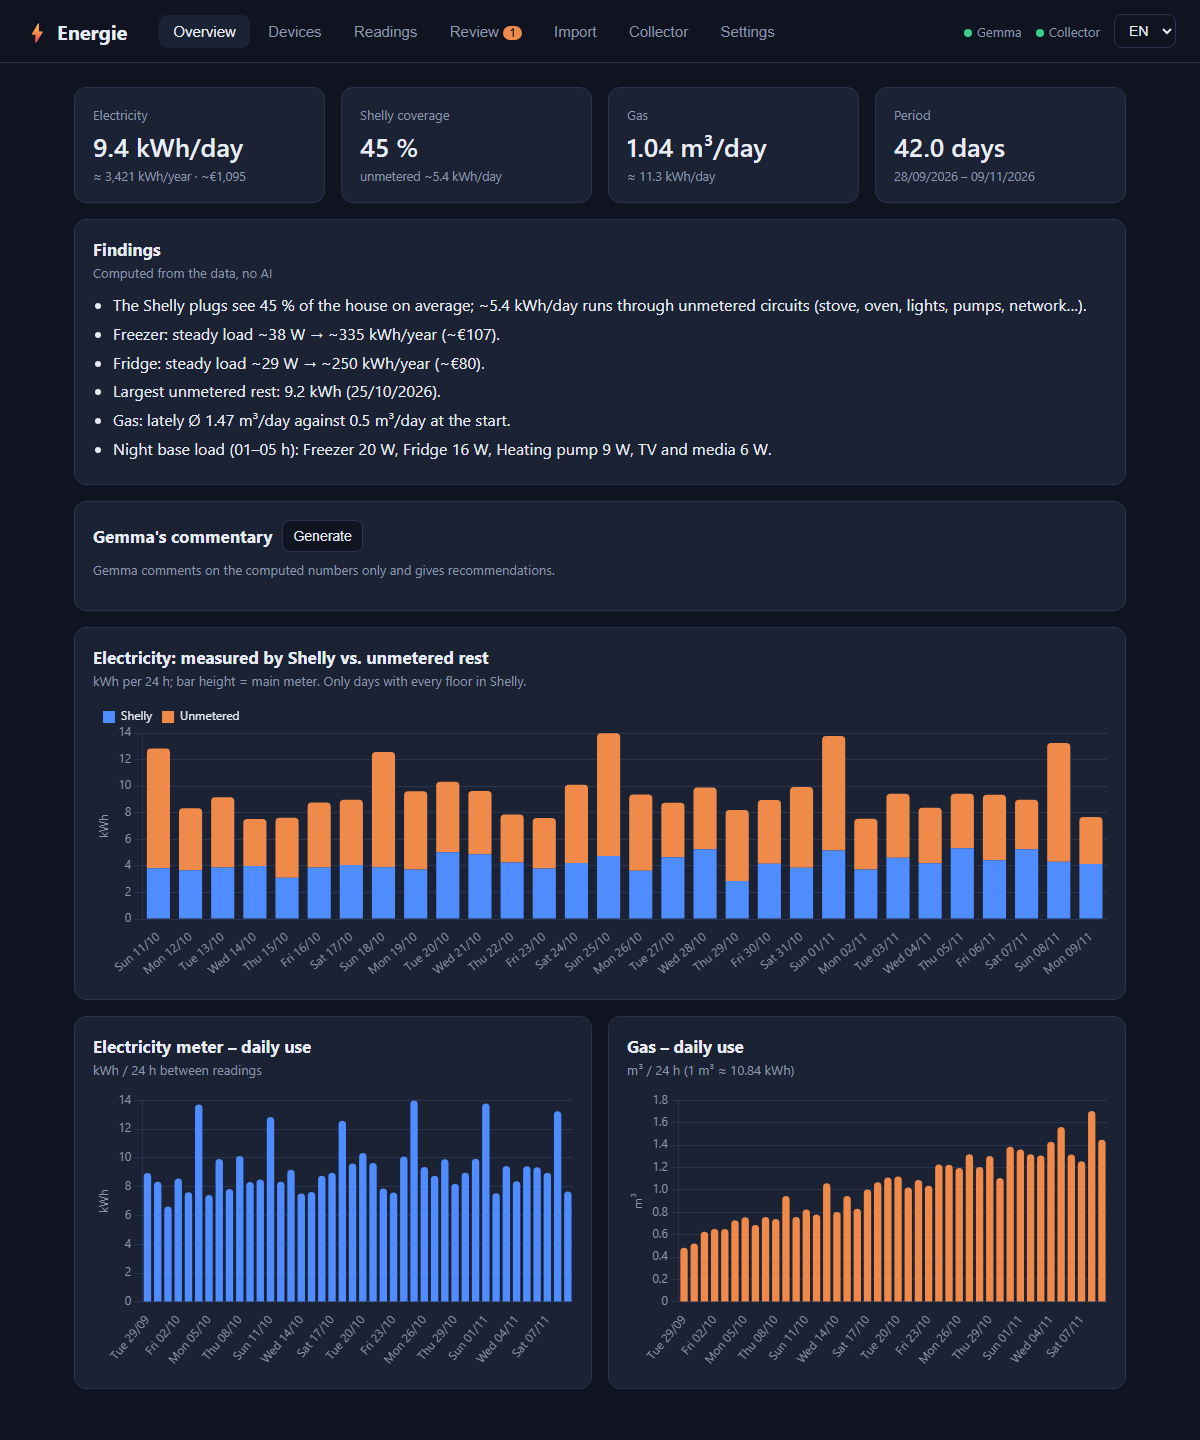
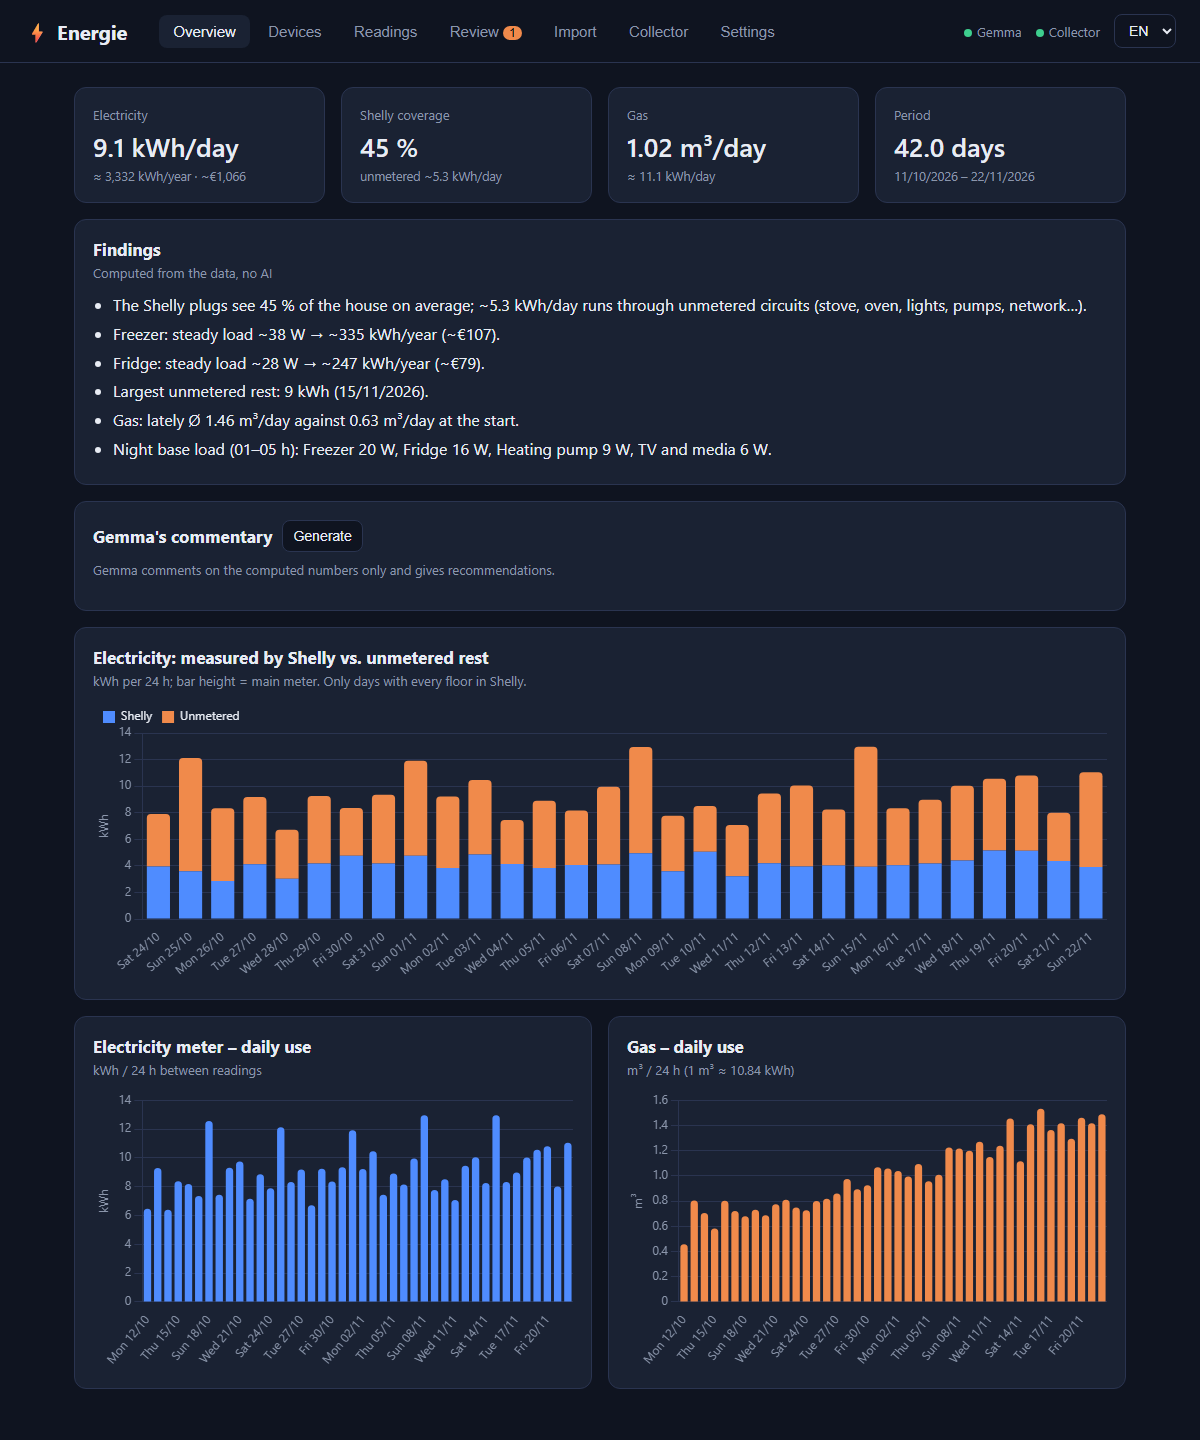
Devices tab: all plugs in one hourly chart, plus a daily stack
- hourly profile: one line per device and a dashed total of the devices
  shown; a click in the legend hides or shows a device in both charts,
  remembered in the browser; Show all / Hide all
- per day: kWh per device, stacked
- eight colour-vision-checked hues that stay with their device; devices
  9-16 reuse them with a dotted line and hatched bars
- a lone hour (first hour, or between gaps) is drawn as a point
- translations are revalidated on load, so new strings show after an update
- README screenshots retaken from the demo

diff --git a/src/energie/static/index.html b/src/energie/static/index.html
@@ -29,6 +29,7 @@
   .row { display:grid; grid-template-columns:1fr 1fr; gap:16px; }
   @media (max-width:800px){ .row { grid-template-columns:1fr; } }
   .chartbox { position:relative; height:280px; }
+  .subhead { font-size:15px; margin:22px 0 4px; }
   table { width:100%; border-collapse:collapse; font-size:14px; }
   th, td { text-align:left; padding:8px 10px; border-bottom:1px solid var(--border); vertical-align:top; }
   th { color:var(--muted); font-weight:500; }
@@ -101,10 +102,14 @@
   <div class="card"><h2 data-i18n="dev_year_title"></h2><p class="hint" data-i18n="dev_year_hint"></p>
     <div class="chartbox" style="height:320px"><canvas id="devChart"></canvas></div></div>
   <div class="card"><h2 data-i18n="hourly_title"></h2>
-    <div class="toolbar" style="margin:8px 0"><select id="hourDev"></select>
-      <select id="hourDays"><option value="2"></option><option value="7" selected></option><option value="30"></option></select></div>
-    <div class="chartbox"><canvas id="hourChart"></canvas></div>
-    <p class="hint" id="hourHint" style="margin-top:8px"></p></div>
+    <div class="toolbar" style="margin:8px 0">
+      <select id="hourDays"><option value="2"></option><option value="7" selected></option><option value="30"></option></select>
+      <button class="btn" id="hourAll" data-i18n="show_all"></button>
+      <button class="btn" id="hourNone" data-i18n="hide_all"></button></div>
+    <p class="hint" id="hourHint"></p>
+    <div class="chartbox" style="height:340px"><canvas id="hourChart"></canvas></div>
+    <h3 class="subhead" data-i18n="daily_title"></h3><p class="hint" data-i18n="daily_hint"></p>
+    <div class="chartbox"><canvas id="dayChart"></canvas></div></div>
   <div class="card"><h2 data-i18n="table_title"></h2><table id="devTable"></table></div>
 </section>
 
@@ -177,7 +182,8 @@ function initialLang() {
   return 'en';
 }
 async function fetchMessages(l) {
-  const r = await fetch(`/static/i18n/${l}.json`);
+  // no-cache: revalidate (ETag) every time, so new strings show after an update without Ctrl+F5
+  const r = await fetch(`/static/i18n/${l}.json`, {cache: 'no-cache'});
   if (!r.ok) throw new Error(`/static/i18n/${l}.json: ${r.status}`);
   return r.json();
 }
@@ -291,21 +297,84 @@ async function loadDevices() {
     DEV.stats.map(r=>`<tr><td>${esc(r.name)}</td><td>${esc(r.floor)}</td><td class=num>${nf(r.mean,2)}</td>
     <td class=num>${nf(r.avg_w,0)}</td><td class=num>${base[r.name]!=null?nf(base[r.name],0):'–'}</td>
     <td class=num>${nf(r.kwh_year,0)}</td><td class=num>${nf(r.eur_year,0)}</td><td class=num>${r.count}</td></tr>`).join('');
-  const names = [...new Set(DEV.hourly.map(h=>h.name))].sort();
-  if (!names.length) { $('#hourHint').textContent = t('hourly_empty'); $('#hourDev').innerHTML=''; if (charts.hourChart) charts.hourChart.destroy(); return; }
-  const cur = $('#hourDev').value;
-  $('#hourDev').innerHTML = names.map(n=>`<option ${n===cur?'selected':''}>${esc(n)}</option>`).join('');
   drawHourly();
 }
-function drawHourly() {
-  const n = $('#hourDev').value, h = DEV.hourly.filter(x=>x.name===n);
-  $('#hourHint').textContent = t('hourly_info', {hours: h.length, kwh: nf(h.reduce((a,x)=>a+x.kwh,0),2)});
-  const lbl = s => { const d = new Date(s); return d.toLocaleDateString(LOCALE[lang], {day:'numeric', month:'numeric'}) + ' ' + d.getHours() + 'h'; };
-  chart('hourChart', {type:'bar', data:{labels:h.map(x=>lbl(x.hour)),
-    datasets:[{data:h.map(x=>x.kwh*1000), backgroundColor:C.accent, borderRadius:2}]},
-    options:barOpts('Wh', {scales:{x:{grid:{display:false}, ticks:{maxTicksLimit:12}}, y:{beginAtZero:true, title:{display:true,text:'Wh'}}}})});
+
+// Devices in one hourly chart (a line each plus their total) and a daily stacked summary.
+// The hidden ones are remembered in this browser only.
+const HOUR_HIDDEN_KEY = 'hourHidden';
+let hourHidden = new Set();
+try { hourHidden = new Set(JSON.parse(localStorage.getItem(HOUR_HIDDEN_KEY) || '[]')); } catch {}
+function saveHourHidden() { try { localStorage.setItem(HOUR_HIDDEN_KEY, JSON.stringify([...hourHidden])); } catch {} }
+const hourNames = () => [...new Set(DEV.hourly.map(h=>h.name))].sort((a,b)=>a.localeCompare(b, LOCALE[lang]));
+
+// Eight categorical hues in a fixed order, checked for colour-vision deficiencies on the card colour.
+// A device keeps its colour when others are hidden (colour follows the device, not its rank);
+// devices 9-16 reuse the hues with a second cue: dotted line, hatched bar. Dashed is the total.
+const SERIES = ['#3987e5','#d95926','#199e70','#c98500','#d55181','#0ca30c','#9085e9','#e66767'];
+const SURFACE = '#1a2233';
+const devColor = i => SERIES[i % SERIES.length];
+const devSecond = i => i >= SERIES.length;
+function hatch(color) {
+  const c = document.createElement('canvas'); c.width = c.height = 8;
+  const g = c.getContext('2d'); g.fillStyle = color; g.fillRect(0, 0, 8, 8);
+  g.strokeStyle = SURFACE; g.lineWidth = 2; g.beginPath();
+  g.moveTo(-2, 2); g.lineTo(2, -2); g.moveTo(0, 8); g.lineTo(8, 0); g.moveTo(6, 10); g.lineTo(10, 6); g.stroke();
+  return g.createPattern(c, 'repeat');
 }
-$('#hourDev').onchange = drawHourly; $('#hourDays').onchange = loadDevices;
+// a click on a device in the legend hides or shows it in both charts; the total cannot be hidden
+function toggleDevice(_e, item, legend) {
+  const ds = legend.chart.data.datasets[item.datasetIndex];
+  if (ds.isTotal) return;
+  hourHidden.has(ds.label) ? hourHidden.delete(ds.label) : hourHidden.add(ds.label);
+  saveHourHidden(); drawHourly();
+}
+
+function drawHourly() {
+  const names = hourNames();
+  if (!names.length) {
+    $('#hourHint').textContent = t('hourly_empty');
+    ['hourChart', 'dayChart'].forEach(k => { if (charts[k]) { charts[k].destroy(); delete charts[k]; } }); return;
+  }
+  const all = names.map((n,i)=>({n, i, hidden: hourHidden.has(n)})), shown = all.filter(d=>!d.hidden);
+  $('#hourHint').textContent = shown.length ? t('hourly_shown', {shown: shown.length, all: names.length}) : t('hourly_none');
+
+  // hourly: one line per device (Wh in that hour) and the total of the devices shown
+  const hours = [...new Set(DEV.hourly.map(x=>x.hour))].sort(), at = new Map(hours.map((h,k)=>[h,k]));
+  const wh = {}; names.forEach(n => wh[n] = hours.map(() => null));
+  DEV.hourly.forEach(x => { wh[x.name][at.get(x.hour)] = x.kwh * 1000; });
+  const total = hours.map((_,k) => { const v = shown.map(d=>wh[d.n][k]).filter(v=>v!=null); return v.length ? v.reduce((a,b)=>a+b,0) : null; });
+  const lbl = s => { const d = new Date(s); return d.toLocaleDateString(LOCALE[lang], {day:'numeric', month:'numeric'}) + ' ' + d.getHours() + 'h'; };
+  const sortDesc = (a, b) => (b.parsed.y ?? 0) - (a.parsed.y ?? 0);
+  const isolated = c => { const d = c.dataset.data, k = c.dataIndex;
+    return d[k] != null && d[k-1] == null && d[k+1] == null ? 4 : 0; };
+  chart('hourChart', {type:'line', data:{labels:hours.map(lbl), datasets:[
+      ...all.map(d=>({label:d.n, data:wh[d.n], hidden:d.hidden, borderColor:devColor(d.i), backgroundColor:devColor(d.i),
+        borderDash:devSecond(d.i)?[2,3]:[], borderWidth:2})),
+      {label:t('total'), data:total, borderColor:C.text, backgroundColor:C.text, borderDash:[6,4], borderWidth:2, isTotal:true}]},
+    options:{responsive:true, maintainAspectRatio:false, animation:false, interaction:{mode:'index', intersect:false},
+      // a point only where an hour stands alone (the first hour, or between gaps): a line needs two
+      elements:{point:{radius:isolated, hoverRadius:4, hitRadius:6}, line:{tension:0}},
+      plugins:{legend:{position:'top', onClick:toggleDevice, labels:{color:C.text, boxWidth:28, boxHeight:10}},
+        tooltip:{itemSort:sortDesc, filter:c => c.dataset.isTotal || (c.parsed.y ?? 0) >= 0.5,
+        callbacks:{label:c=>`${c.dataset.label}: ${nf(c.parsed.y,0)} Wh`}}},
+      scales:{x:{grid:{display:false}, ticks:{maxTicksLimit:12}}, y:{beginAtZero:true, title:{display:true,text:'Wh'}}}}});
+
+  // daily: kWh per day, one stacked segment per device
+  const days = [...new Set(hours.map(h=>h.slice(0,10)))];
+  const kwh = {}; names.forEach(n => kwh[n] = days.map(() => 0));
+  DEV.hourly.forEach(x => { kwh[x.name][days.indexOf(x.hour.slice(0,10))] += x.kwh; });
+  chart('dayChart', {type:'bar', data:{labels:days.map(dlabel), datasets:all.map(d=>({label:d.n, data:kwh[d.n], hidden:d.hidden,
+      backgroundColor:devSecond(d.i) ? hatch(devColor(d.i)) : devColor(d.i), borderColor:SURFACE, borderWidth:1, borderSkipped:false}))},
+    options:{responsive:true, maintainAspectRatio:false, animation:false, interaction:{mode:'index', intersect:false},
+      plugins:{legend:{position:'top', onClick:toggleDevice, labels:{color:C.text, boxWidth:28, boxHeight:10}}, tooltip:{itemSort:sortDesc, filter:c => (c.parsed.y ?? 0) >= 0.005,
+        callbacks:{label:c=>`${c.dataset.label}: ${nf(c.parsed.y,2)} kWh`,
+          footer:items=>`${t('total')}: ${nf(items.reduce((a,c)=>a+(c.parsed.y??0),0),2)} kWh`}}},
+      scales:{x:{stacked:true, grid:{display:false}}, y:{stacked:true, beginAtZero:true, title:{display:true,text:'kWh'}}}}});
+}
+$('#hourDays').onchange = loadDevices;
+$('#hourAll').onclick = () => { hourHidden.clear(); saveHourHidden(); drawHourly(); };
+$('#hourNone').onclick = () => { hourNames().forEach(n=>hourHidden.add(n)); saveHourHidden(); drawHourly(); };
 
 // ---------- readings ----------
 const meterName = m => t('m_'+m);

diff --git a/scripts/readme_screenshots.py b/scripts/readme_screenshots.py
@@ -27,7 +27,7 @@ ROOT = Path(__file__).resolve().parent.parent
 OUT = ROOT / "docs" / "images"
 WIDTH = 1200
 # file name -> (tab, height in px)
-SHOTS = {"overview": ("overview", 1440), "devices": ("devices", 1330), "review": ("review", 340)}
+SHOTS = {"overview": ("overview", 1440), "devices": ("devices", 1740), "review": ("review", 340)}
 
 # Chrome first: Edge leaves files in its temporary profile that Windows lets go of only later
 CANDIDATES = [

diff --git a/README.md b/README.md
@@ -52,7 +52,7 @@ tab next to its photo, where you correct it with one click.
 
 | Devices |  |
 |---|---|
-| ![Yearly estimate per plug, hourly profile from the collector and the device table](docs/images/devices.png) | Every plug with its daily average, its night base load and what it costs a year. With the collector running, the hourly profile shows when a device actually runs. |
+| ![Yearly estimate per plug, hourly profile from the collector and the device table](docs/images/devices.png) | Every plug with its daily average, its night base load and what it costs a year. With the collector running, the hourly profile shows when each device actually runs, all plugs in one chart with their total, and a stacked chart per day; hide the plugs you do not need. |
 
 ## Try it with invented data
 
